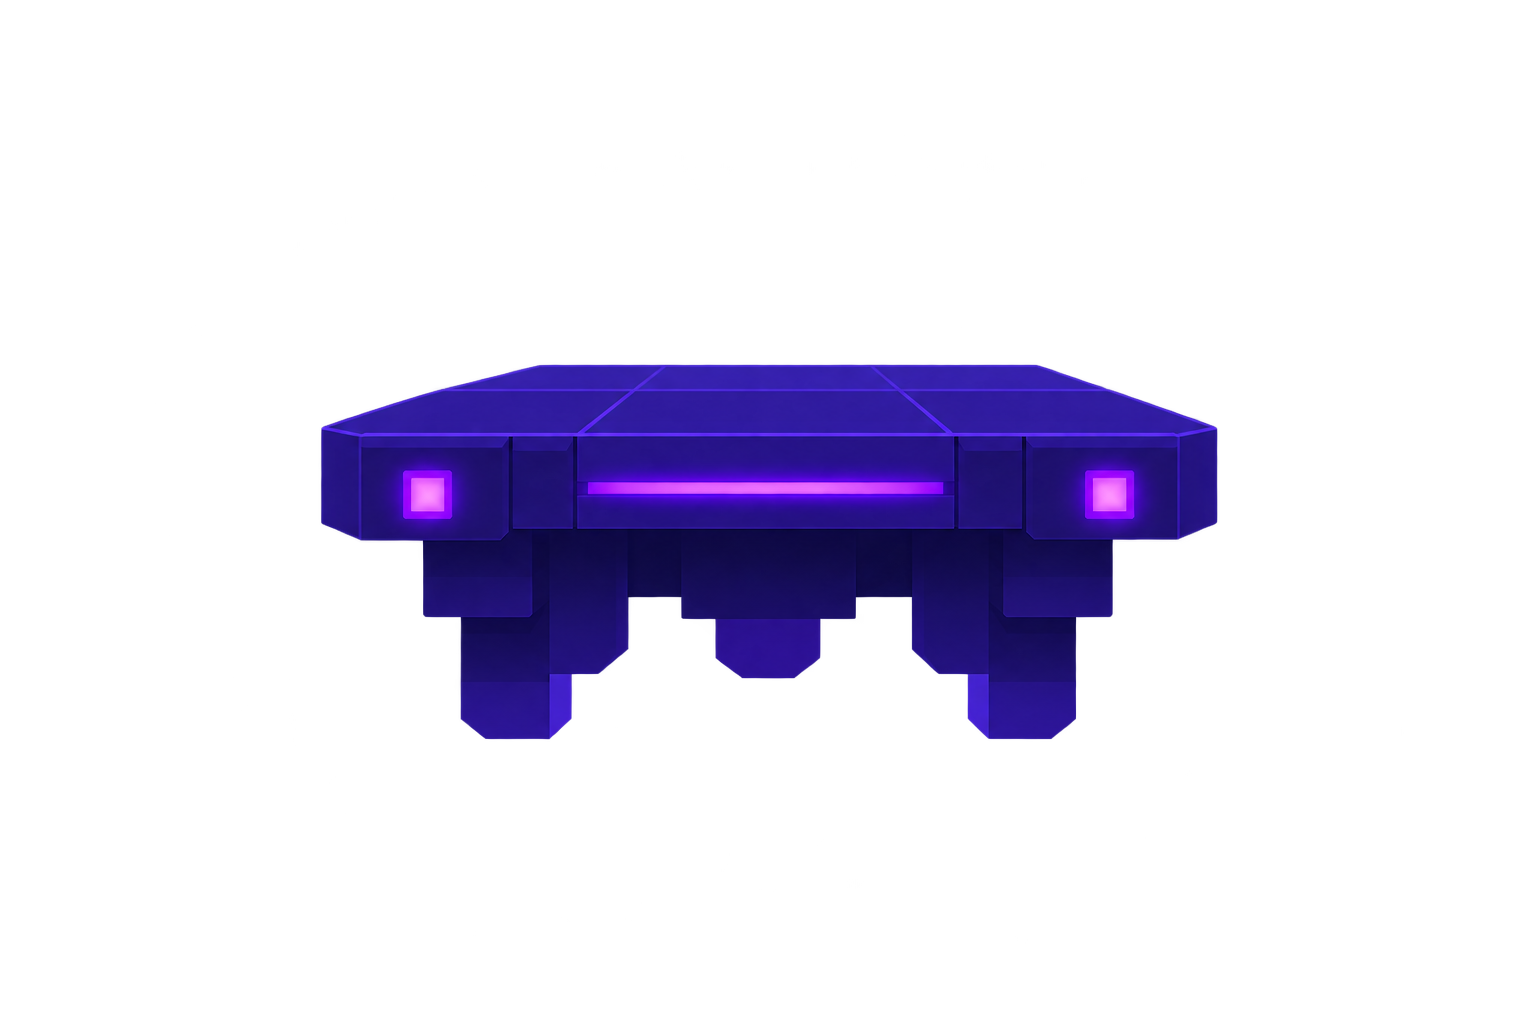
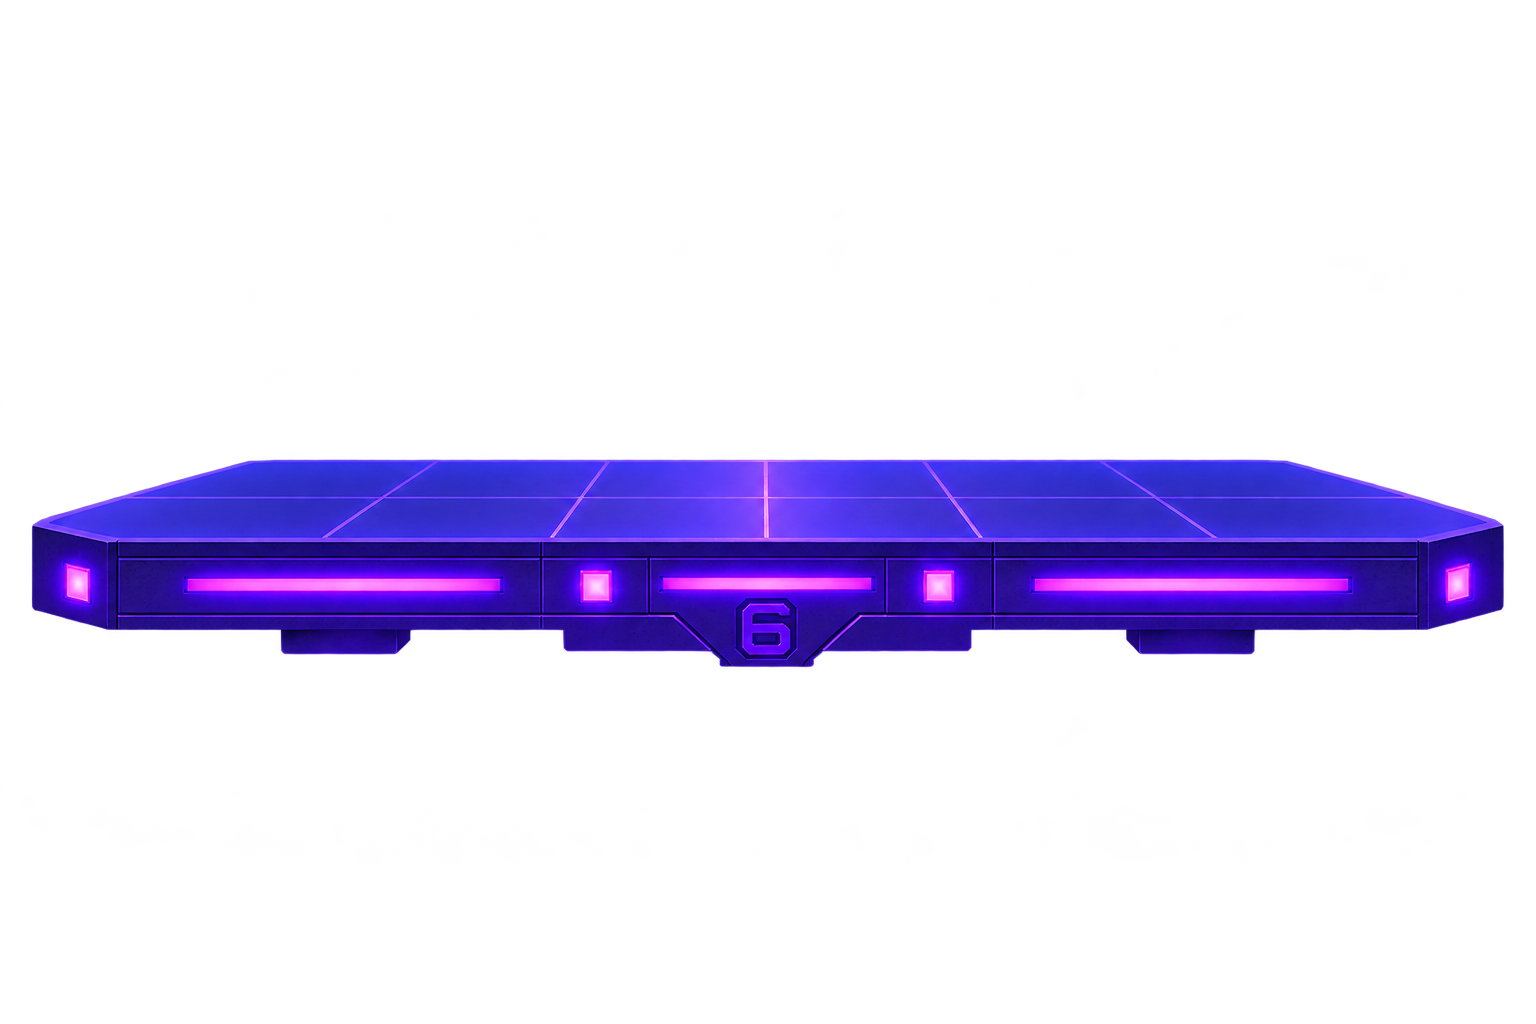
Add files via upload

Changed region(s): [[0.0, 0.3438, 1.0, 0.7188]]

diff --git a/renderer.js b/renderer.js
@@ -26,10 +26,13 @@ function drawJoinedSplitCityPlatform(ctx, platform, foreground = false) {
   // Draw the complete supplied PNG at a uniform scale. Align the collision
   // surface to the centre of the front purple light strip (source y ~= 548).
   // Using the full image prevents cropping or non-uniformly stretching it.
-  const scale = platform.w / splitCityStage.naturalWidth;
+  const visualX = platform._visualX ?? platform.x;
+  const visualW = platform._visualW ?? platform.w;
+  const visualY = platform._visualY ?? platform.y;
+  const scale = visualW / splitCityStage.naturalWidth;
   const drawH = splitCityStage.naturalHeight * scale;
-  const stripCenterY = 548 * scale;
-  const visual = { x: platform.x, y: platform.y - stripCenterY, w: platform.w, h: drawH };
+  const stripCenterY = 584 * scale;
+  const visual = { x: visualX, y: visualY - stripCenterY, w: visualW, h: drawH };
   ctx.save();
   ctx.imageSmoothingEnabled = true;
   if (foreground) {
@@ -37,7 +40,7 @@ function drawJoinedSplitCityPlatform(ctx, platform, foreground = false) {
     // This makes their feet appear set into the illuminated front strip.
     const bottom = visual.y + visual.h;
     ctx.beginPath();
-    ctx.rect(platform.x, platform.y, platform.w, Math.max(1, bottom - platform.y));
+    ctx.rect(visualX, visualY, visualW, Math.max(1, bottom - visualY));
     ctx.clip();
   }
   ctx.drawImage(splitCityStage, visual.x, visual.y, visual.w, visual.h);
@@ -51,7 +54,7 @@ function drawSplitCityMovingPlatform(ctx, platform) {
   // Keep its aspect ratio and align its top collision to the purple light strip.
   const scale = platform.w / splitCityMovingStage.naturalWidth;
   const drawH = splitCityMovingStage.naturalHeight * scale;
-  const stripCenterY = 488 * scale;
+  const stripCenterY = 584 * scale;
   ctx.drawImage(splitCityMovingStage, platform.x, platform.y - stripCenterY, platform.w, drawH);
   return true;
 }

diff --git a/PlatformFighter.jsx b/PlatformFighter.jsx
@@ -48,13 +48,15 @@ const H = 720;
 
 const MAP_PLATFORMS = {
   splitcity: [
-    // Main platform: rectangular solid collider. y is the centre of the visible
-    // purple deck strip; the front/body extends about 300px below it.
-    { x: 75, y: 500, w: 1130, h: 338, material: 'split_city_joined', _forceSolid: true, _splitCityMain: true },
-    // Floating platform uses the supplied no-emblem variant. One-way top only:
-    // no side or underside collisions; down+jump drops through it.
-    { x: 530, y: 310, w: 220, h: 16, material: 'split_city_moving', _splitCityMoving: true,
-      move: { type: 'horizontal', distance: 700, speed: 1 / 90, phase: 0 } },
+    // Visual art stays at its established position and aspect ratio. The solid
+    // collider is a tighter rectangle: top raised by ~50px, sides inset 20px,
+    // and the bottom extends well below the visible front wall.
+    { x: 95, y: 450, w: 1090, h: 470, _visualX: 75, _visualY: 500, _visualW: 1130,
+      material: 'split_city_joined', _forceSolid: true, _splitCityMain: true },
+    // One-way mini platform, positioned higher. Top-only collision; its artwork
+    // now uses the latest attached texture. Travel is 700px across in ~45s each way.
+    { x: 530, y: 260, w: 220, h: 16, material: 'split_city_moving', _splitCityMoving: true,
+      move: { type: 'horizontal', distance: 700, speed: 1 / 180, phase: 0 } },
   ],
   // Basic — Split City backdrop with a single flat normal-material platform
   basic: [

diff --git a/movingPlatforms.js b/movingPlatforms.js
@@ -53,7 +53,7 @@ export function applyMovingPlatforms(platforms, timeMs, fighters) {
 
 function movementOffset(mv, timeMs, startMs) {
   const distance = Math.max(0, Number(mv.distance) || 0);
-  const speed = Math.max(0.05, Number(mv.speed) || 1);
+  const speed = Math.max(0.001, Number(mv.speed) || 1);
 
   if (mv.type === 'oneway') {
     // One-way movement travels once and stays at its destination.
